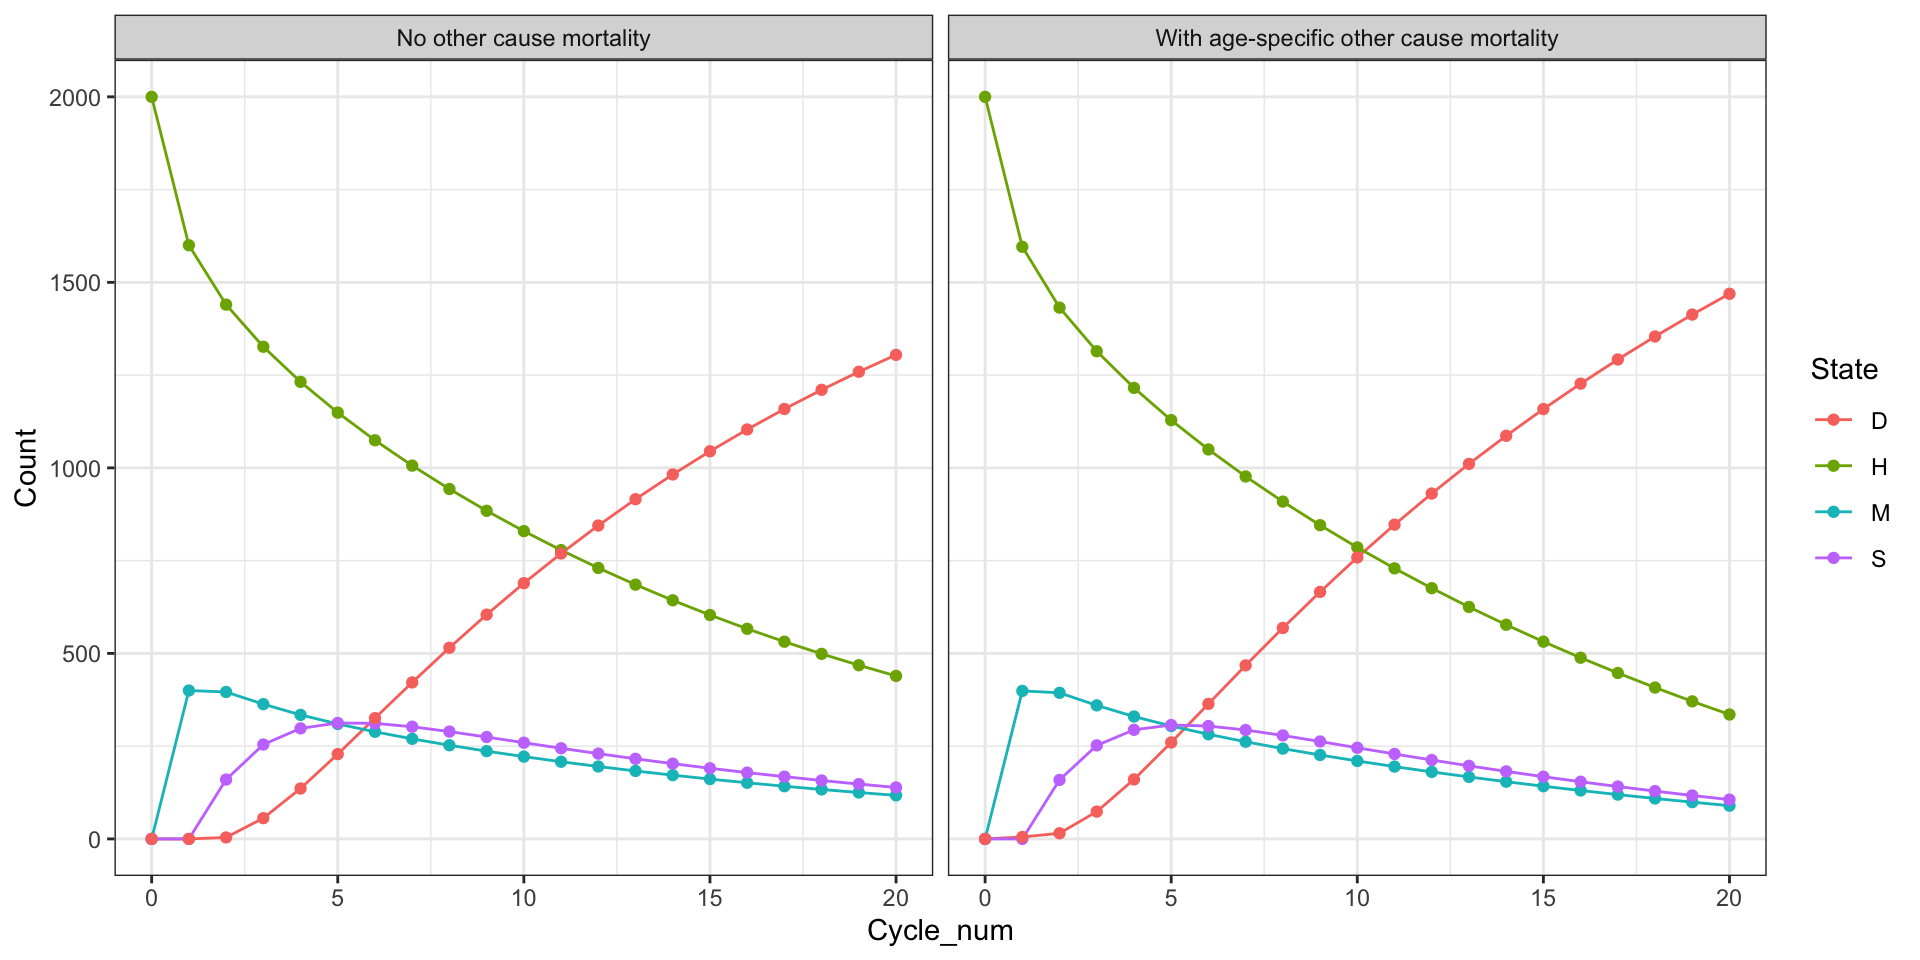
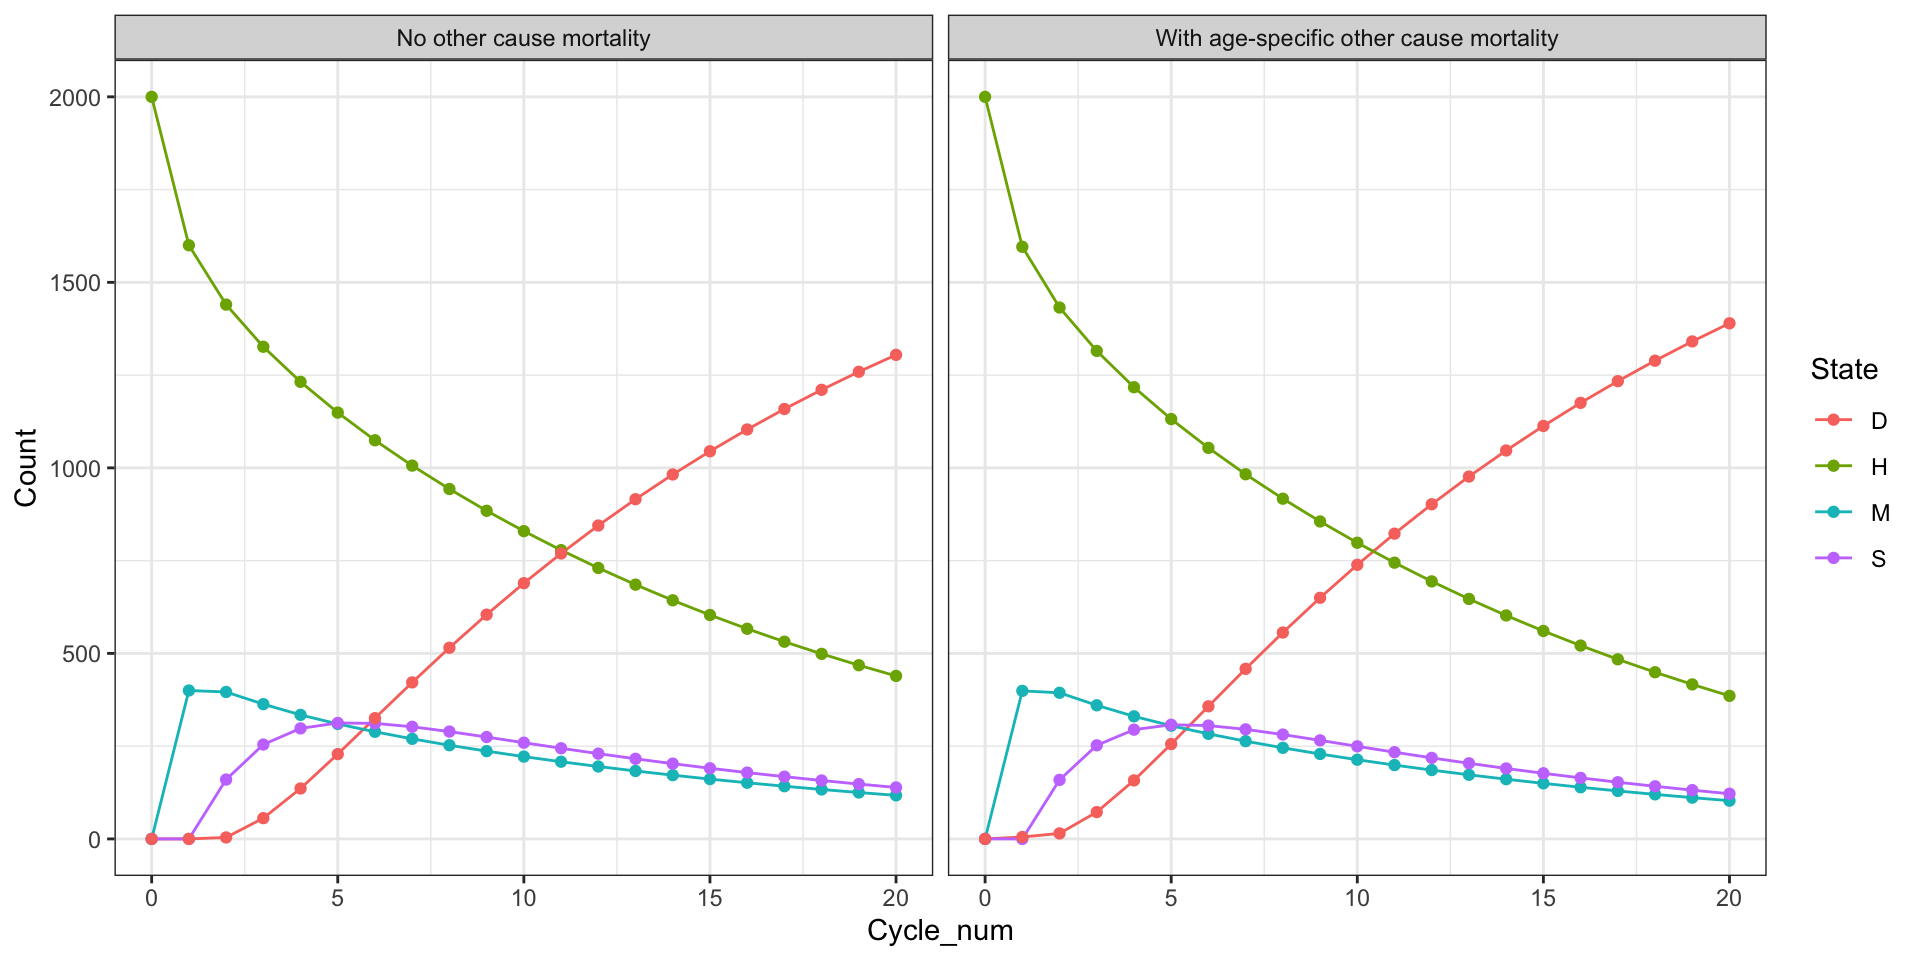
fixed typos in cohort lectures

diff --git a/sessions/05-cohort_models_2/cohorts_2.html b/sessions/05-cohort_models_2/cohorts_2.html
@@ -809,35 +809,35 @@ H M S D
 <h2>Age-specific death: M matrix</h2>
 <div class="cell">
 <div class="sourceCode cell-code" id="cb9"><pre class="sourceCode numberSource r number-lines code-with-copy"><code class="sourceCode r"><span id="cb9-1"><a href="#cb9-1"></a>M_OCM <span class="ot">=</span> <span class="fu">matrix</span>(<span class="fu">rep</span>(<span class="dv">0</span>, <span class="dv">4</span><span class="sc">*</span><span class="dv">21</span>), <span class="at">ncol=</span><span class="dv">4</span>,</span>
-<span id="cb9-2"><a href="#cb9-2"></a>           <span class="at">dimnames =</span> <span class="fu">list</span>(<span class="dv">0</span><span class="sc">:</span><span class="dv">20</span>, <span class="fu">c</span>(<span class="st">"H"</span>,<span class="st">"M"</span>,<span class="st">"S"</span>,<span class="st">"D"</span>)))</span>
+<span id="cb9-2"><a href="#cb9-2"></a>               <span class="at">dimnames =</span> <span class="fu">list</span>(<span class="dv">0</span><span class="sc">:</span><span class="dv">20</span>, <span class="fu">c</span>(<span class="st">"H"</span>,<span class="st">"M"</span>,<span class="st">"S"</span>,<span class="st">"D"</span>)))</span>
 <span id="cb9-3"><a href="#cb9-3"></a>M_OCM[<span class="dv">1</span>,] <span class="ot">&lt;-</span> m_0 <span class="co">#save initial distribution of cohort</span></span>
 <span id="cb9-4"><a href="#cb9-4"></a><span class="cf">for</span> (i <span class="cf">in</span> <span class="dv">1</span><span class="sc">:</span><span class="dv">20</span>){ <span class="co">#calculate distribution after each cycle</span></span>
-<span id="cb9-5"><a href="#cb9-5"></a>  M_OCM[i<span class="sc">+</span><span class="dv">1</span>,] <span class="ot">&lt;-</span> m_0 <span class="sc">%*%</span> (arr_P[ , , i] <span class="sc">%^%</span> i)</span>
+<span id="cb9-5"><a href="#cb9-5"></a>  M_OCM[i<span class="sc">+</span><span class="dv">1</span>,] <span class="ot">&lt;-</span> M_OCM[i,] <span class="sc">%*%</span> arr_P[ , , i]</span>
 <span id="cb9-6"><a href="#cb9-6"></a>}</span>
 <span id="cb9-7"><a href="#cb9-7"></a>M_OCM</span></code><button title="Copy to Clipboard" class="code-copy-button"><i class="bi"></i></button></pre></div>
 <div class="cell-output cell-output-stdout">
-<pre><code>           H         M        S          D
-0  2000.0000   0.00000   0.0000    0.00000
-1  1595.8240 398.95600   0.0000    5.22000
-2  1431.8899 393.76971 159.0989   15.24157
-3  1314.3400 359.93731 252.0869   73.63580
-4  1215.6758 329.90469 294.0227  160.39682
-5  1128.6330 304.39523 306.9418  260.03005
-6  1049.6928 282.03934 304.2808  363.98711
-7   976.8567 261.87964 293.5388  467.72490
-8   909.1029 243.39140 278.8847  568.62098
-9   845.5671 226.20297 262.5264  665.70347
-10  785.6833 210.08542 245.6508  758.58049
-11  729.1871 194.92536 228.9260  846.96152
-12  675.8299 180.63279 212.6877  930.84961
-13  625.1729 167.07750 197.0253 1010.72433
-14  577.2256 154.25494 182.0667 1086.45278
-15  531.6225 142.06349 167.7652 1158.54879
-16  488.3517 130.49787 154.1549 1226.99552
-17  447.1861 119.49618 141.1845 1292.13321
-18  408.0078 109.02629 128.8281 1354.13778
-19  370.7264  99.06370 117.0635 1413.14641
-20  335.3462  89.60936 105.8953 1469.14921</code></pre>
+<pre><code>           H        M        S          D
+0  2000.0000   0.0000   0.0000    0.00000
+1  1595.8240 398.9560   0.0000    5.22000
+2  1432.1914 393.8526 159.1324   14.82359
+3  1315.1970 360.1720 252.2513   72.37966
+4  1217.4208 330.3782 294.4447  157.75631
+5  1131.4785 305.1627 307.7156  255.64316
+6  1053.9249 283.1765 305.5075  357.39107
+7   982.8062 263.4746 295.3265  458.39271
+8   916.9577 245.4943 281.2943  556.25362
+9   855.6197 228.8922 265.6475  649.84068
+10  798.2672 213.4502 249.5852  738.69736
+11  744.5260 199.0257 233.7416  822.70660
+12  694.1063 185.5176 218.4394  901.93671
+13  646.7506 172.8442 203.8256  976.57966
+14  602.2535 160.9433 189.9609 1046.84236
+15  560.4174 149.7582 176.8521 1112.97226
+16  521.0734 139.2418 164.4839 1175.20089
+17  484.0600 129.3495 152.8262 1233.76424
+18  449.2280 120.0410 141.8434 1288.88754
+19  416.4399 111.2790 131.4984 1340.78275
+20  385.5725 103.0306 121.7557 1389.64121</code></pre>
 </div>
 </div>
 </section>

diff --git a/sessions/04-cohort_models_1/cohorts_1.html b/sessions/04-cohort_models_1/cohorts_1.html
@@ -1306,7 +1306,7 @@ q_H+q_{D \rightarrow H} &amp; q_M+q_{D \rightarrow M} &amp; q_S+q_{D \rightarrow
 <h2>Logistics</h2>
 <ul>
 <li>Assignment 1 (cost-effectiveness, decision trees) due Friday 9/15</li>
-<li>Assignment 2 available; due Wednesday 9/16
+<li>Assignment 2 available; due Wednesday 9/26
 <ul>
 <li>Trickier; you have more time for a reason!</li>
 </ul></li>
